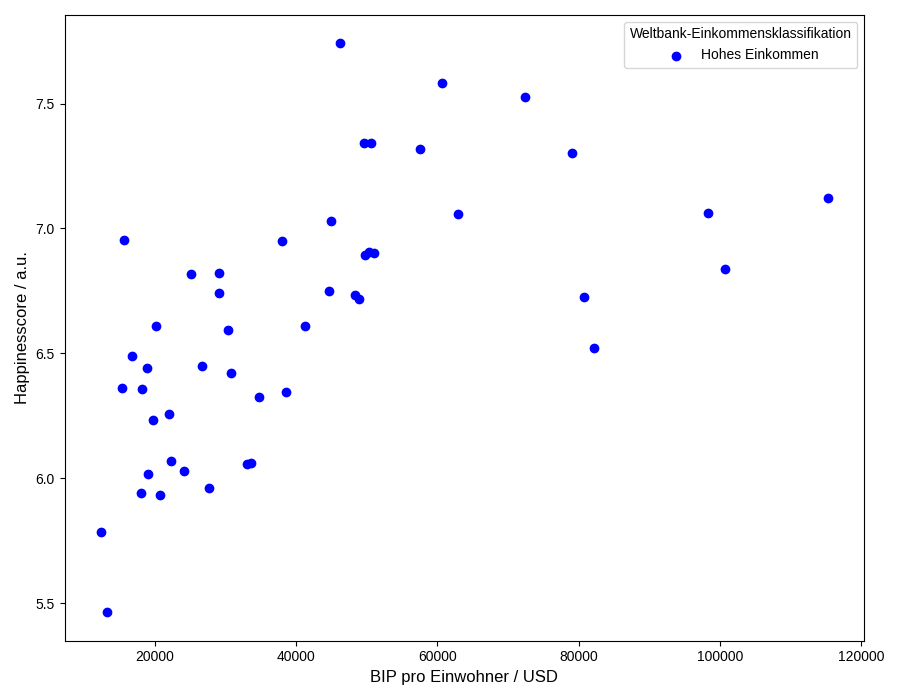
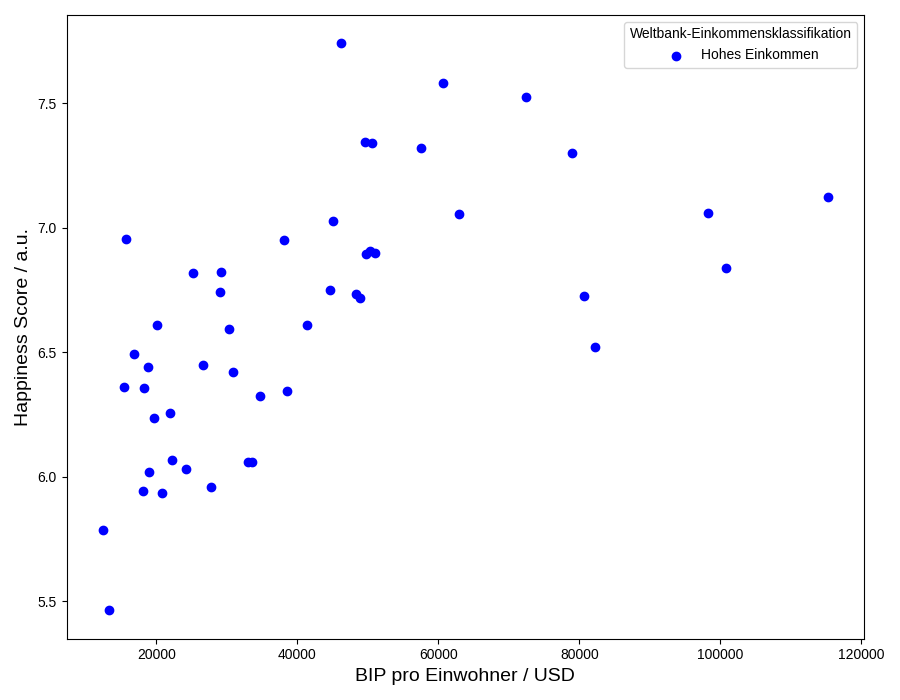
More plots and corrected mistakes

diff --git a/plotting.py b/plotting.py
@@ -84,14 +84,14 @@ plt.scatter(
     linewidths=0.3
 )
 
-plt.ylabel("Happinesscore / a.u.", fontsize=12)
-plt.xlabel("Lebenserwartung bei Geburt / Jahre", fontsize=12)
+plt.ylabel("Happiness Score / a.u.", fontsize=14)
+plt.xlabel("Lebenserwartung bei Geburt / Jahre", fontsize=14)
 
 plt.legend(
     handles=legend_handles,
     title="Weltbank-Einkommensklassifikation",
     loc="upper left",
-    fontsize=12
+    fontsize=14
 )
 
 plt.tight_layout()
@@ -141,14 +141,14 @@ plt.scatter(
     linewidths=0.3
 )
 
-plt.xlabel("Lebenserwartung bei Geburt / Jahre", fontsize=12)
-plt.ylabel("Happinesscore / a.u.", fontsize=12)
+plt.xlabel("Lebenserwartung bei Geburt / Jahre", fontsize=14)
+plt.ylabel("Happiness Score / a.u.", fontsize=14)
 
 plt.legend(
     handles=legend_handles + [fit_line],
     title="Weltbank-Einkommensklassifikation",
     loc="upper left",
-    fontsize=12
+    fontsize=14
 )
 
 plt.tight_layout()
@@ -182,8 +182,8 @@ plt.scatter(
     c=colors
 )
 
-plt.ylabel("Happinesscore / a.u.", fontsize=12)
-plt.xlabel("Erwartete Schuljahre / Jahre", fontsize=12)
+plt.ylabel("Happiness Score / a.u.", fontsize=14)
+plt.xlabel("Erwartete Schuljahre / Jahre", fontsize=14)
 
 plt.legend(handles=legend_handles, title="Weltbank-Einkommensklassifikation")
 plt.tight_layout()
@@ -280,14 +280,72 @@ plt.scatter(
     c=colors
 )
 
-plt.ylabel("Happinesscore / a.u.", fontsize=12)
-plt.xlabel("BIP / USD", fontsize=12)
+plt.ylabel("Happiness Score / a.u.", fontsize=14)
+plt.xlabel("BIP / USD", fontsize=14)
 #plt.xscale("log")
 
 plt.legend(handles=legend_handles, title="Weltbank-Einkommensklassifikation")
 plt.tight_layout()
 plt.savefig("/home/soeke/pb321-BigData/figures/plot-Happiness-BIP.png")
 plt.show()
+
+# %% Happiness vs HDI with linear regression
+df_plot = df.dropna(subset=[
+    "Life evaluation (3-year average)",
+    "HDI",
+    "world_bank_classification"
+])
+
+x = df_plot["HDI"].values
+y = df_plot["Life evaluation (3-year average)"].values
+
+# linear regression
+a, b = np.polyfit(x, y, 1)
+
+x_fit = np.linspace(x.min(), x.max(), x.size)
+y_fit = a * x_fit + b
+
+# R²
+y_pred = a * x + b
+ss_res = np.sum((y - y_pred)**2)
+ss_tot = np.sum((y - y.mean())**2)
+r2 = 1 - ss_res / ss_tot
+
+colors = df_plot["world_bank_classification"].map(color_map)
+
+plt.figure(figsize=(9, 7))
+
+fit_line, = plt.plot(
+    x_fit,
+    y_fit,
+    color="black",
+    linestyle="dashed",
+    linewidth=2,
+    label=rf"Lineare Regression, $R^2 = {r2:.2f}$"
+)
+
+plt.scatter(
+    x,
+    y,
+    c=colors,
+    edgecolors="k",
+    linewidths=0.3
+)
+
+plt.xlabel("HDI / a.u.", fontsize=14)
+plt.ylabel("Happiness Score / a.u.", fontsize=14)
+
+plt.legend(
+    handles=legend_handles + [fit_line],
+    title="Weltbank-Einkommensklassifikation",
+    loc="upper left",
+    fontsize=14
+)
+
+plt.tight_layout()
+plt.savefig("/home/soeke/pb321-BigData/figures/plot-Happiness-HDI-regression.png")
+plt.show()
+
 
 
 # %% GDP_per_Cap over Happiness
@@ -334,8 +392,8 @@ plt.scatter(
 )
 
 
-plt.ylabel("Happinesscore / a.u.", fontsize=12)
-plt.xlabel("BIP pro Einwohner / USD", fontsize=12)
+plt.ylabel("Happiness Score / a.u.", fontsize=14)
+plt.xlabel("BIP pro Einwohner / USD", fontsize=14)
 #plt.xscale("log")
 
 plt.legend(
@@ -364,57 +422,13 @@ plt.scatter(
     label="Hohes Einkommen"
 )
 
-plt.ylabel("Happinesscore / a.u.", fontsize=12)
-plt.xlabel("BIP pro Einwohner / USD", fontsize=12)
+plt.ylabel("Happiness Score / a.u.", fontsize=14)
+plt.xlabel("BIP pro Einwohner / USD", fontsize=14)
 #plt.xscale("log")
 
 plt.legend(title="Weltbank-Einkommensklassifikation")
 plt.tight_layout()
 plt.savefig("/home/soeke/pb321-BigData/figures/plot-Happiness-BIP_pro_Einwohner-HighIncome.png")
-plt.show()
-
-#%% Correlation heatmap
-columns_of_interest = [
-    "population",
-    "Life_Expectancy_at_Birth",
-    "Life evaluation (3-year average)",
-    "gdp_per_capita",
-    "gdp",
-    "gni",
-    "HDI",
-    "expected_years_of_schooling"
-]
-
-df_corr = df_plot[columns_of_interest].copy()
-df_corr["log_gdp_per_capita"] = np.log(df_corr["gdp_per_capita"])
-correlation_matrix = df_corr.corr()
-
-german_labels = {
-    "population": "Bevölkerung",
-    "Life_Expectancy_at_Birth": "Lebenserwartung",
-    "Life evaluation (3-year average)": "Happinesscore",
-    "gdp_per_capita": "BIP pro Einwohner",
-    "gdp": "BIP",
-    "gni": "GNI",
-    "HDI": "HDI",
-    "expected_years_of_schooling": "Erwartete Schuljahre",
-    "log_gdp_per_capita": "log(BIP pro Einwohner)"
-}
-correlation_matrix.rename(index=german_labels, columns=german_labels, inplace=True)
-
-plt.figure(figsize=(10, 8))
-sns.heatmap(
-    correlation_matrix,
-    annot=True,
-    fmt=".2f",
-    cmap="coolwarm",
-    square=True,
-    cbar_kws={"shrink": 0.8}
-)
-plt.tight_layout()
-plt.xticks(rotation=45, ha="right",fontsize=14)
-plt.yticks(fontsize=14)
-plt.savefig("/home/soeke/pb321-BigData/figures/plot-correlation-Heatmap.png")
 plt.show()
 
 #%% Life expectancy vs gdp
@@ -449,7 +463,11 @@ plt.xlabel("BIP pro Einwohner / USD")
 plt.ylabel("Lebenserwartung / Jahre")
 plt.xscale("log")
 
-plt.legend(handles=legend_handles, title="Weltbank-Einkommensklassifikation",loc="upper left")
+plt.legend(
+    handles=legend_handles,
+    title="Weltbank-Einkommensklassifikation",
+    loc="upper left"
+)
 plt.tight_layout()
 plt.savefig("/home/soeke/pb321-BigData/figures/plot-BIP_pro_Einwohner-Lebenserwartung.png")
 plt.show()
@@ -479,7 +497,6 @@ plt.tight_layout()
 plt.savefig("/home/soeke/pb321-BigData/figures/plot-BIP_pro_Einwohner-Lebenserwartung-MannFrau.png")
 plt.show()
 
-
 gender_gap = (
     df_plot["Female_Life_Expectancy_at_Birth"]
     - df_plot["Male_Life_Expectancy_at_Birth"]
@@ -496,10 +513,78 @@ plt.xlabel("GDP per capita (USD)")
 plt.ylabel("Differenz Lebenserwartung (Weiblich - Männlich) / Jahre")
 plt.xscale("log")
 
-plt.legend(handles=legend_handles, title="Weltbank-Einkommensklassifikation",loc="upper left")
+plt.legend(
+    handles=legend_handles,
+    title="Weltbank-Einkommensklassifikation",
+    loc="upper left"
+)
 plt.tight_layout()
 plt.savefig("/home/soeke/pb321-BigData/figures/plot-BIP_pro_Einwohner-Lebenserwartung-Differenz.png")
 plt.show()
+
+
+#%% Correlation heatmap
+columns_of_interest = [
+    "population",
+    "Life_Expectancy_at_Birth",
+    "Life evaluation (3-year average)",
+    "gdp_per_capita",
+    "gdp",
+    "gni",
+    "HDI",
+    "expected_years_of_schooling"
+]
+
+df_corr = df_plot[columns_of_interest].copy()
+
+# Add gender life expectancy difference for correlation
+df_corr["Gender_Life_Expectancy_Difference"] = (
+    df_plot["Female_Life_Expectancy_at_Birth"]
+    - df_plot["Male_Life_Expectancy_at_Birth"]
+)
+
+df_corr["log_gdp_per_capita"] = np.log(df_corr["gdp_per_capita"])
+
+correlation_matrix = df_corr.corr()
+
+german_labels = {
+    "population": "Bevölkerung",
+    "Life_Expectancy_at_Birth": "Lebenserwartung",
+    "Life evaluation (3-year average)": "Happiness Score",
+    "gdp_per_capita": "BIP pro Einwohner",
+    "gdp": "BIP",
+    "gni": "GNI",
+    "HDI": "HDI",
+    "expected_years_of_schooling": "Erwartete Schuljahre",
+    "log_gdp_per_capita": "log(BIP pro Einwohner)",
+    "Gender_Life_Expectancy_Difference": "Geschlechterdifferenz-\nLebenserwartung"
+}
+
+correlation_matrix.rename(
+    index=german_labels,
+    columns=german_labels,
+    inplace=True
+)
+
+plt.figure(figsize=(10, 8))
+vmin = correlation_matrix.min().min()
+sns.heatmap(
+    correlation_matrix,
+    annot=True,
+    fmt=".2f",
+    cmap="coolwarm",
+    square=True,
+    vmin=vmin,
+    center=0.25,
+    cbar_kws={"shrink": 0.8}
+)
+
+plt.tight_layout()
+plt.xticks(rotation=45, ha="right", fontsize=14)
+plt.yticks(fontsize=14)
+plt.savefig("/home/soeke/pb321-BigData/figures/plot-correlation-Heatmap.png")
+plt.show()
+
 
 
 #%% Individual countries: Happiness score
@@ -521,7 +606,7 @@ plt.barh(
     color=colors
 )
 
-plt.xlabel("Happinesscore / a.u.", fontsize=12)
+plt.xlabel("Happiness Score / a.u.", fontsize=14)
 
 plt.legend(
     handles=legend_handles,
@@ -553,7 +638,7 @@ plt.barh(
     color=colors
 )
 
-plt.xlabel("BIP pro Einwohner / USD", fontsize=12)
+plt.xlabel("BIP pro Einwohner / USD", fontsize=14)
 legend_handles = [
     Patch(facecolor=color, label=label)
     for label, color in color_map.items()
@@ -588,7 +673,7 @@ plt.barh(
     color=colors
 )
 
-plt.xlabel("HDI / a.u.", fontsize=12)
+plt.xlabel("HDI / a.u.", fontsize=14)
 legend_handles = [
     Patch(facecolor=color, label=label)
     for label, color in color_map.items()
@@ -623,7 +708,7 @@ plt.barh(
     color=colors
 )
 
-plt.xlabel("GNI (2023) / USD", fontsize=12)
+plt.xlabel("GNI (2023) / USD", fontsize=14)
 legend_handles = [
     Patch(facecolor=color, label=label)
     for label, color in color_map.items()
@@ -658,7 +743,7 @@ plt.barh(
     color=colors
 )
 
-plt.xlabel("Einwohnerzahl", fontsize=12)
+plt.xlabel("Einwohnerzahl", fontsize=14)
 legend_handles = [
     Patch(facecolor=color, label=label)
     for label, color in color_map.items()
@@ -672,6 +757,40 @@ plt.legend(
 
 plt.tight_layout()
 plt.savefig("/home/soeke/pb321-BigData/figures/plot-Einwohnerzahl-individual-Countries.png")
+plt.show()
+
+
+#%% Individual countries: Life expectancy (male vs female)
+
+df_plot = df_sel.sort_values("Female_Life_Expectancy_at_Birth")
+
+x = np.arange(len(df_plot["country"]))
+bar_width = 0.4  # touching bars
+
+plt.figure(figsize=(10, 5))
+
+plt.bar(
+    x - bar_width / 2,
+    df_plot["Male_Life_Expectancy_at_Birth"],
+    width=bar_width,
+    color="blue",
+    label="Männliche Lebenserwartung"
+)
+
+plt.bar(
+    x + bar_width / 2,
+    df_plot["Female_Life_Expectancy_at_Birth"],
+    width=bar_width,
+    color="pink",
+    label="Weibliche Lebenserwartung"
+)
+
+plt.xticks(x, df_plot["country"], rotation=45)
+plt.ylabel("Lebenserwartung / Jahre", fontsize=14)
+
+plt.legend(loc="upper left")
+plt.tight_layout()
+plt.savefig("/home/soeke/pb321-BigData/figures/plot-Lebenserwartung-MannFrau-individual-Countries.png")
 plt.show()
 
 # %%
